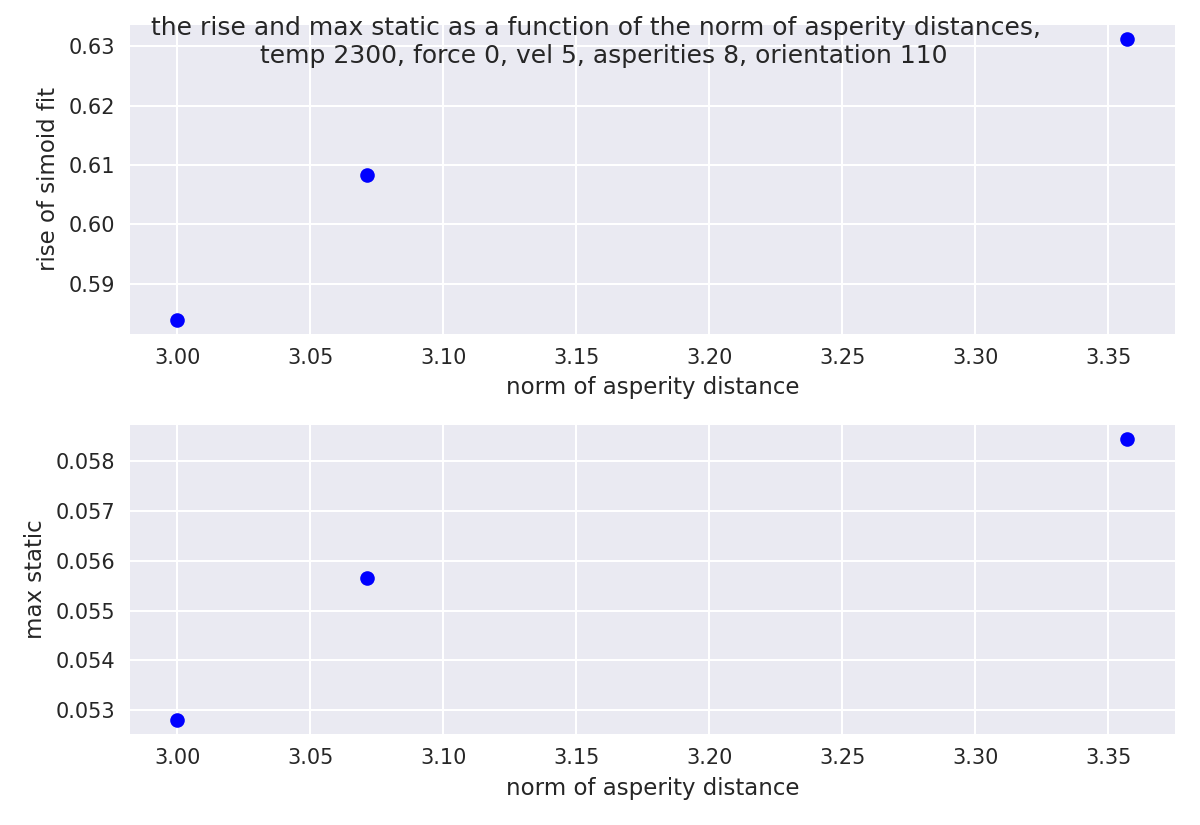
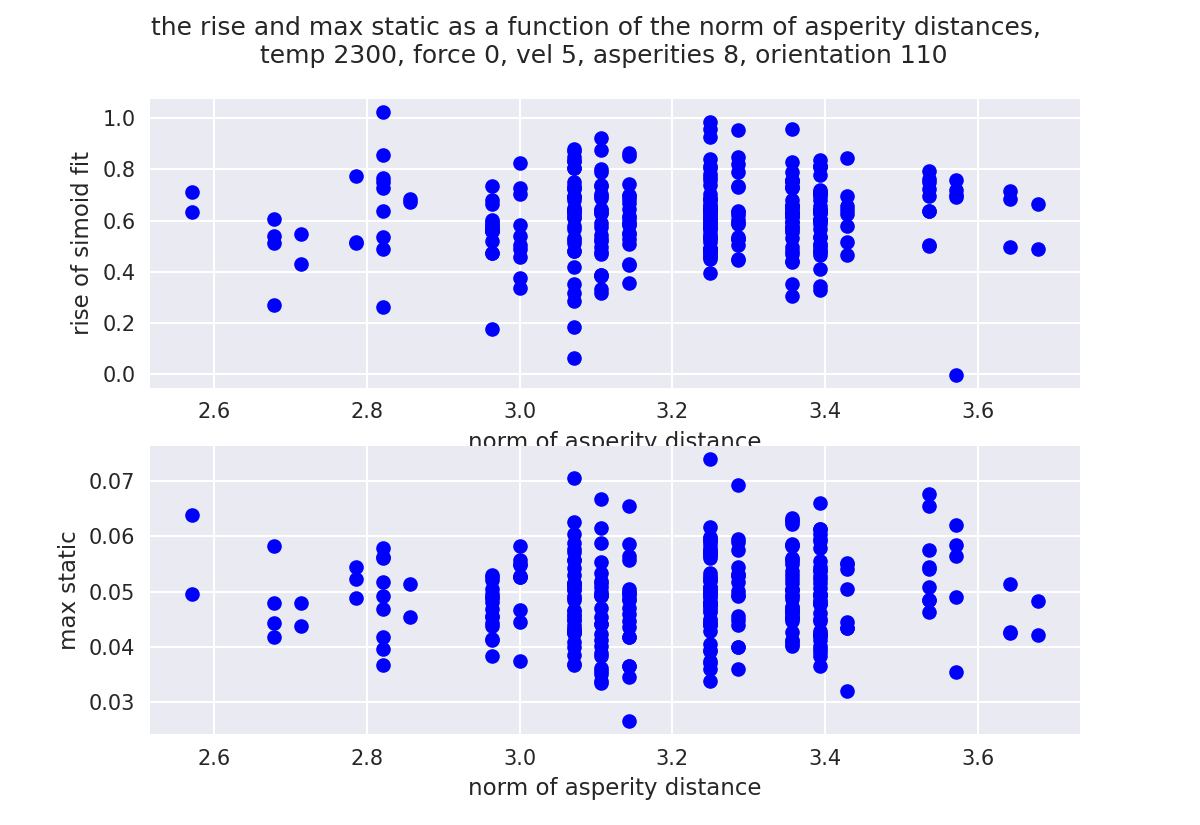
plot update

diff --git a/python/plot/plot_asperity_distance.py b/python/plot/plot_asperity_distance.py
@@ -47,7 +47,7 @@ def plot_max_static_dist():
     fig, axs = plt.subplots(2)
     axs = axs.ravel()
 
-    for i in range(3): #this code now works with producition
+    for i in range(300): #this code now works with producition
         lc_files = glob(template_lc.format(temp, vel, force, asperities,orientation, i, grid[0], grid[1]))
         print(lc_files)
         lc_file = lc_files[0]
@@ -86,7 +86,6 @@ def plot_max_static_dist():
     axs[0].set_ylabel('rise of simoid fit')
     axs[1].set_xlabel('norm of asperity distance')
     axs[1].set_ylabel('max static')
-    fig.tight_layout(pad=1.2)
     fig.suptitle(f"the rise and max static as a function of the norm of asperity distances, \n temp {temp}, force {force}, vel {vel}, asperities {asperities}, orientation {orientation}")
     fig.savefig(fig_dir + 'png/asperity_distance_v_maxstatic.png', dpi = 150)
 
